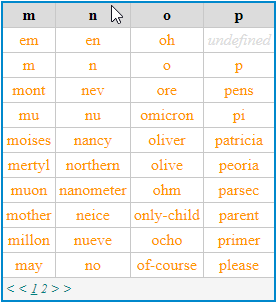
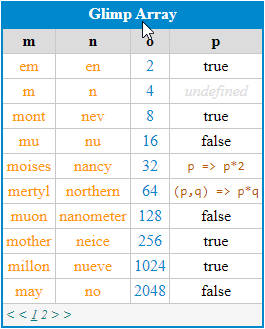
Updated readme and added images.

diff --git a/test/readme.c.js b/test/readme.c.js
@@ -1,5 +1,8 @@
 import { print } from '../src/glimp.js';
 
+let str = 'This is a string';
+function func (a,b) { return a + b; }
+
 let array = [
     { m: 'em', n: 'en', o: 2, p: true },
     { m: 'm', n: 'n', o: 4 },
@@ -12,7 +15,7 @@ let array = [
     { m: 'millon', n: 'nueve', o: 1024, p: true },
     { m: 'may', n: 'no', o: 2048, p: false },
     { m: 'mechanic', n: 'navigator', o: 4096, p: true },
-    { m: 'man', n: 'nick', o: 8192, p: false },
+    { m: 'man', n: 'nick', o: 8192, p: false }
 ];
 
 let object = { 
@@ -25,11 +28,20 @@ let object = {
     g: false
 };
 
+let large = [];
+for (let i = 0; i <= 100; i++) 
+    large.push({ a: i, b: i * 2});
+
+document.body.innerHTML += `<div id='stringDiv'></div><br/>`
+document.body.innerHTML += `<div id='funcDiv'></div><br/>`
 document.body.innerHTML += `<div id='arrayDiv'></div><br/>`
 document.body.innerHTML += `<div id='objectDiv'></div><br/>`
+document.body.innerHTML += `<div id='largeDiv'></div><br/>`
 
-print(`#arrayDiv`, array);
-print(`#objectDiv`, object);
+print('#stringDiv', str);
+print('#funcDiv', func);
+print('#arrayDiv', array, 'Glimp Array');
+print('#objectDiv', object);
+print('#largeDiv', large);
 
-
-
+function test () {}

diff --git a/dist/glimp.js b/dist/glimp.js
@@ -287,10 +287,17 @@ function addPageInputListeners (table) {
 
 function changeToPage(table, page) {
 
+    let pages = tableGet(table, 'pages');
     let startItem = (page - 1) * tableGet(table, 'rowsPerPage');
     let endItem = startItem + tableGet(table, 'rowsPerPage');
     let pageAs = table.querySelectorAll('.glimpPageDiv a');
     let tBodyRows = [...table.tBodies].reduce((a,b) => a.concat(b)).rows;
+
+    // prevent going over or under pages possible
+    page = page > pages ? pages
+         : page === undefined ? pages 
+         : page < 1 ? 1
+         : page; 
 
     for (let pix = 0; pix < pageAs.length; pix++) {
 

diff --git a/readMe.md b/readMe.md
@@ -1,4 +1,4 @@
-A printer for javascript content, particularly for tablular data.  Color codes data types.  Table paging available.
+A printer for javascript content, particularly for tablular data.  Color codes output based on data type.  Table paging is available and automatic.
 
 ## Getting Started
 
@@ -6,26 +6,60 @@ After installing glimp, what you really want is the 'print' object.
 
     npm install glimp
 
-## Printing an Array of Objects
+    import { print } from './node_modules/glimp/dist/glimp.js';
 
-The glimp printer can work on an array.  It is best exemplified by printing an array of objects, such as the one below:
+Other objects, such as charting, in glimp may be made available as the need arises. That is why there is no default export structure.
 
-    let array = [
-        { m: 'em', n: 'en', o: 'oh' },
-        { m: 'm', n: 'n', o: 'o', p: 'p' },
-        { m: 'mont', n: 'nev', o: 'ore', p: 'pens' },
-        { m: 'mu', n: 'nu', o: 'omicron', p: 'pi' },
-        { m: 'moises', n: 'nancy', o: 'oliver', p: 'patricia' },
-        { m: 'mertyl', n: 'northern', o: 'olive', p: 'peoria' },
-        { m: 'muon', n: 'nanometer', o: 'ohm', p: 'parsec' },
-        { m: 'mother', n: 'neice', o: 'only-child', p: 'parent' },
-        { m: 'millon', n: 'nueve', o: 'ocho', p: 'primer' },
-        { m: 'may', n: 'no', o: 'of-course', p: 'please' },
-        { m: 'mechanic', n: 'navigator', o: 'oncologist', p: 'programmer' },
-        { m: 'man', n: 'nick', o: 'open', p: 'picky' },
-    ];
+In the examples below, you will see the import from a different path:
 
-To use it, create an HTML `div` object (other container-type objects may work as well.  Then reference it (using querySelector syntax) as well as the object you want to print in `glimp.print`.
+    import { print } from '../src/glimp.js';
+
+This is simply because it is the path used when developing in the test environment of glimp itself.  
+
+## Printing Primitives
+
+The glimp printer can print many types of objects.  All that is required is an HTML div to print it into.  Different kinds of objects will recieve different kinds of colorizations.  
+
+Consider a string and a function:
+
+    let str = 'This is a string';
+    function func (a,b) { return a + b; }
+
+To use glimp, create an HTML `div` object (other container-type objects may work as well for each.  Then reference each (using querySelector syntax) as well as the object you want to print in `glimp.print`.
+
+    <div id='stringDiv'></div><br/>
+    <div id='funcDiv'></div>
+
+    <script type='module'>
+
+        // most likely, the path you will need 
+        // is './node_modules/glimp/dist/glimp.js'
+        import { print } from '../src/glimp.js';
+
+        print('#stringDiv', str);
+        print('#funcDiv', func);
+
+    </script>
+
+This will result in:
+
+![primitives](images/primitives.png)
+
+## Printing an Object
+
+The glimp printer also works with complex objects.  Consider this object:
+
+    let object = { 
+        a: 'eigh', 
+        b: 1, 
+        c: 0.555,
+        d: 'delta',
+        e: p => p/3,
+        f: undefined,
+        g: false
+    };
+
+If you print it:
 
     <div id='arrayDiv'></div>
 
@@ -33,10 +67,78 @@ To use it, create an HTML `div` object (other container-type objects may work as
 
         import { print } from '../src/glimp.js';
 
-        print(`#arrayDiv`, array);
+        print('#arrayDiv', array);
+
+    </script>
+
+You will get:
+
+![ObjectTable](images/objectTable.png)
+
+## Printing an Array of Objects (with a caption)
+
+The glimp printer can work with an array.  It is best exemplified by printing an array of objects, such as the one below:
+
+    let array = [
+        { m: 'em', n: 'en', o: 2, p: true },
+        { m: 'm', n: 'n', o: 4 },
+        { m: 'mont', n: 'nev', o: 8, p: true },
+        { m: 'mu', n: 'nu', o: 16, p: false },
+        { m: 'moises', n: 'nancy', o: 32, p: p => p*2 },
+        { m: 'mertyl', n: 'northern', o: 64, p: (p,q) => p*q },
+        { m: 'muon', n: 'nanometer', o: 128, p: false },
+        { m: 'mother', n: 'neice', o: 256, p: true },
+        { m: 'millon', n: 'nueve', o: 1024, p: true },
+        { m: 'may', n: 'no', o: 2048, p: false },
+        { m: 'mechanic', n: 'navigator', o: 4096, p: true },
+        { m: 'man', n: 'nick', o: 8192, p: false }
+    ];
+
+Print it as with any other object.  Though, for tabular objects you can also add a third parameter providing a caption.
+
+    <div id='arrayDiv'></div>
+
+    <script type='module'>
+
+        import { print } from '../src/glimp.js';
+
+        print('#arrayDiv', array, 'Glimp Array');
 
     </script>
 
 The code above results in the following presentation object:
 
 ![ArrayTable](images/ArrayTable.png)
+
+Click on '2' or on either '>' to go to the next page:
+
+![ArrayTablePage2](images/ArrayTablePage2.png)
+
+The inner '<' and '>' will take you to the previous and next pages, respectively.  The outer '<' and '>' will take you to the first and last pages, respectively.   In this case, they are the same.  But with more pages, such as in the next example, they are not the same.
+
+## Printing Large Arrays
+
+Many arrays can be quite large. 
+
+    let large = [];
+    for (let i = 0; i <= 100; i++) 
+        large.push({ a: i, b: i * 2});
+
+Print it as before:
+
+    <div id='largeDiv'></div>
+
+    <script type='module'>
+        import { print } from '../src/glimp.js';    
+        print('#largeDiv', large);
+    </script>
+
+You will notice a little difference in the pager:
+
+![LongArray](images/LongArray.png);
+
+The nearest pages are listed explicitly, but then there is another line giving the number of pages.
+
+Hover over this line, and you will be given an option to input the page you desire to jump to:
+
+![LongArray2](images/LongArray2.png)
